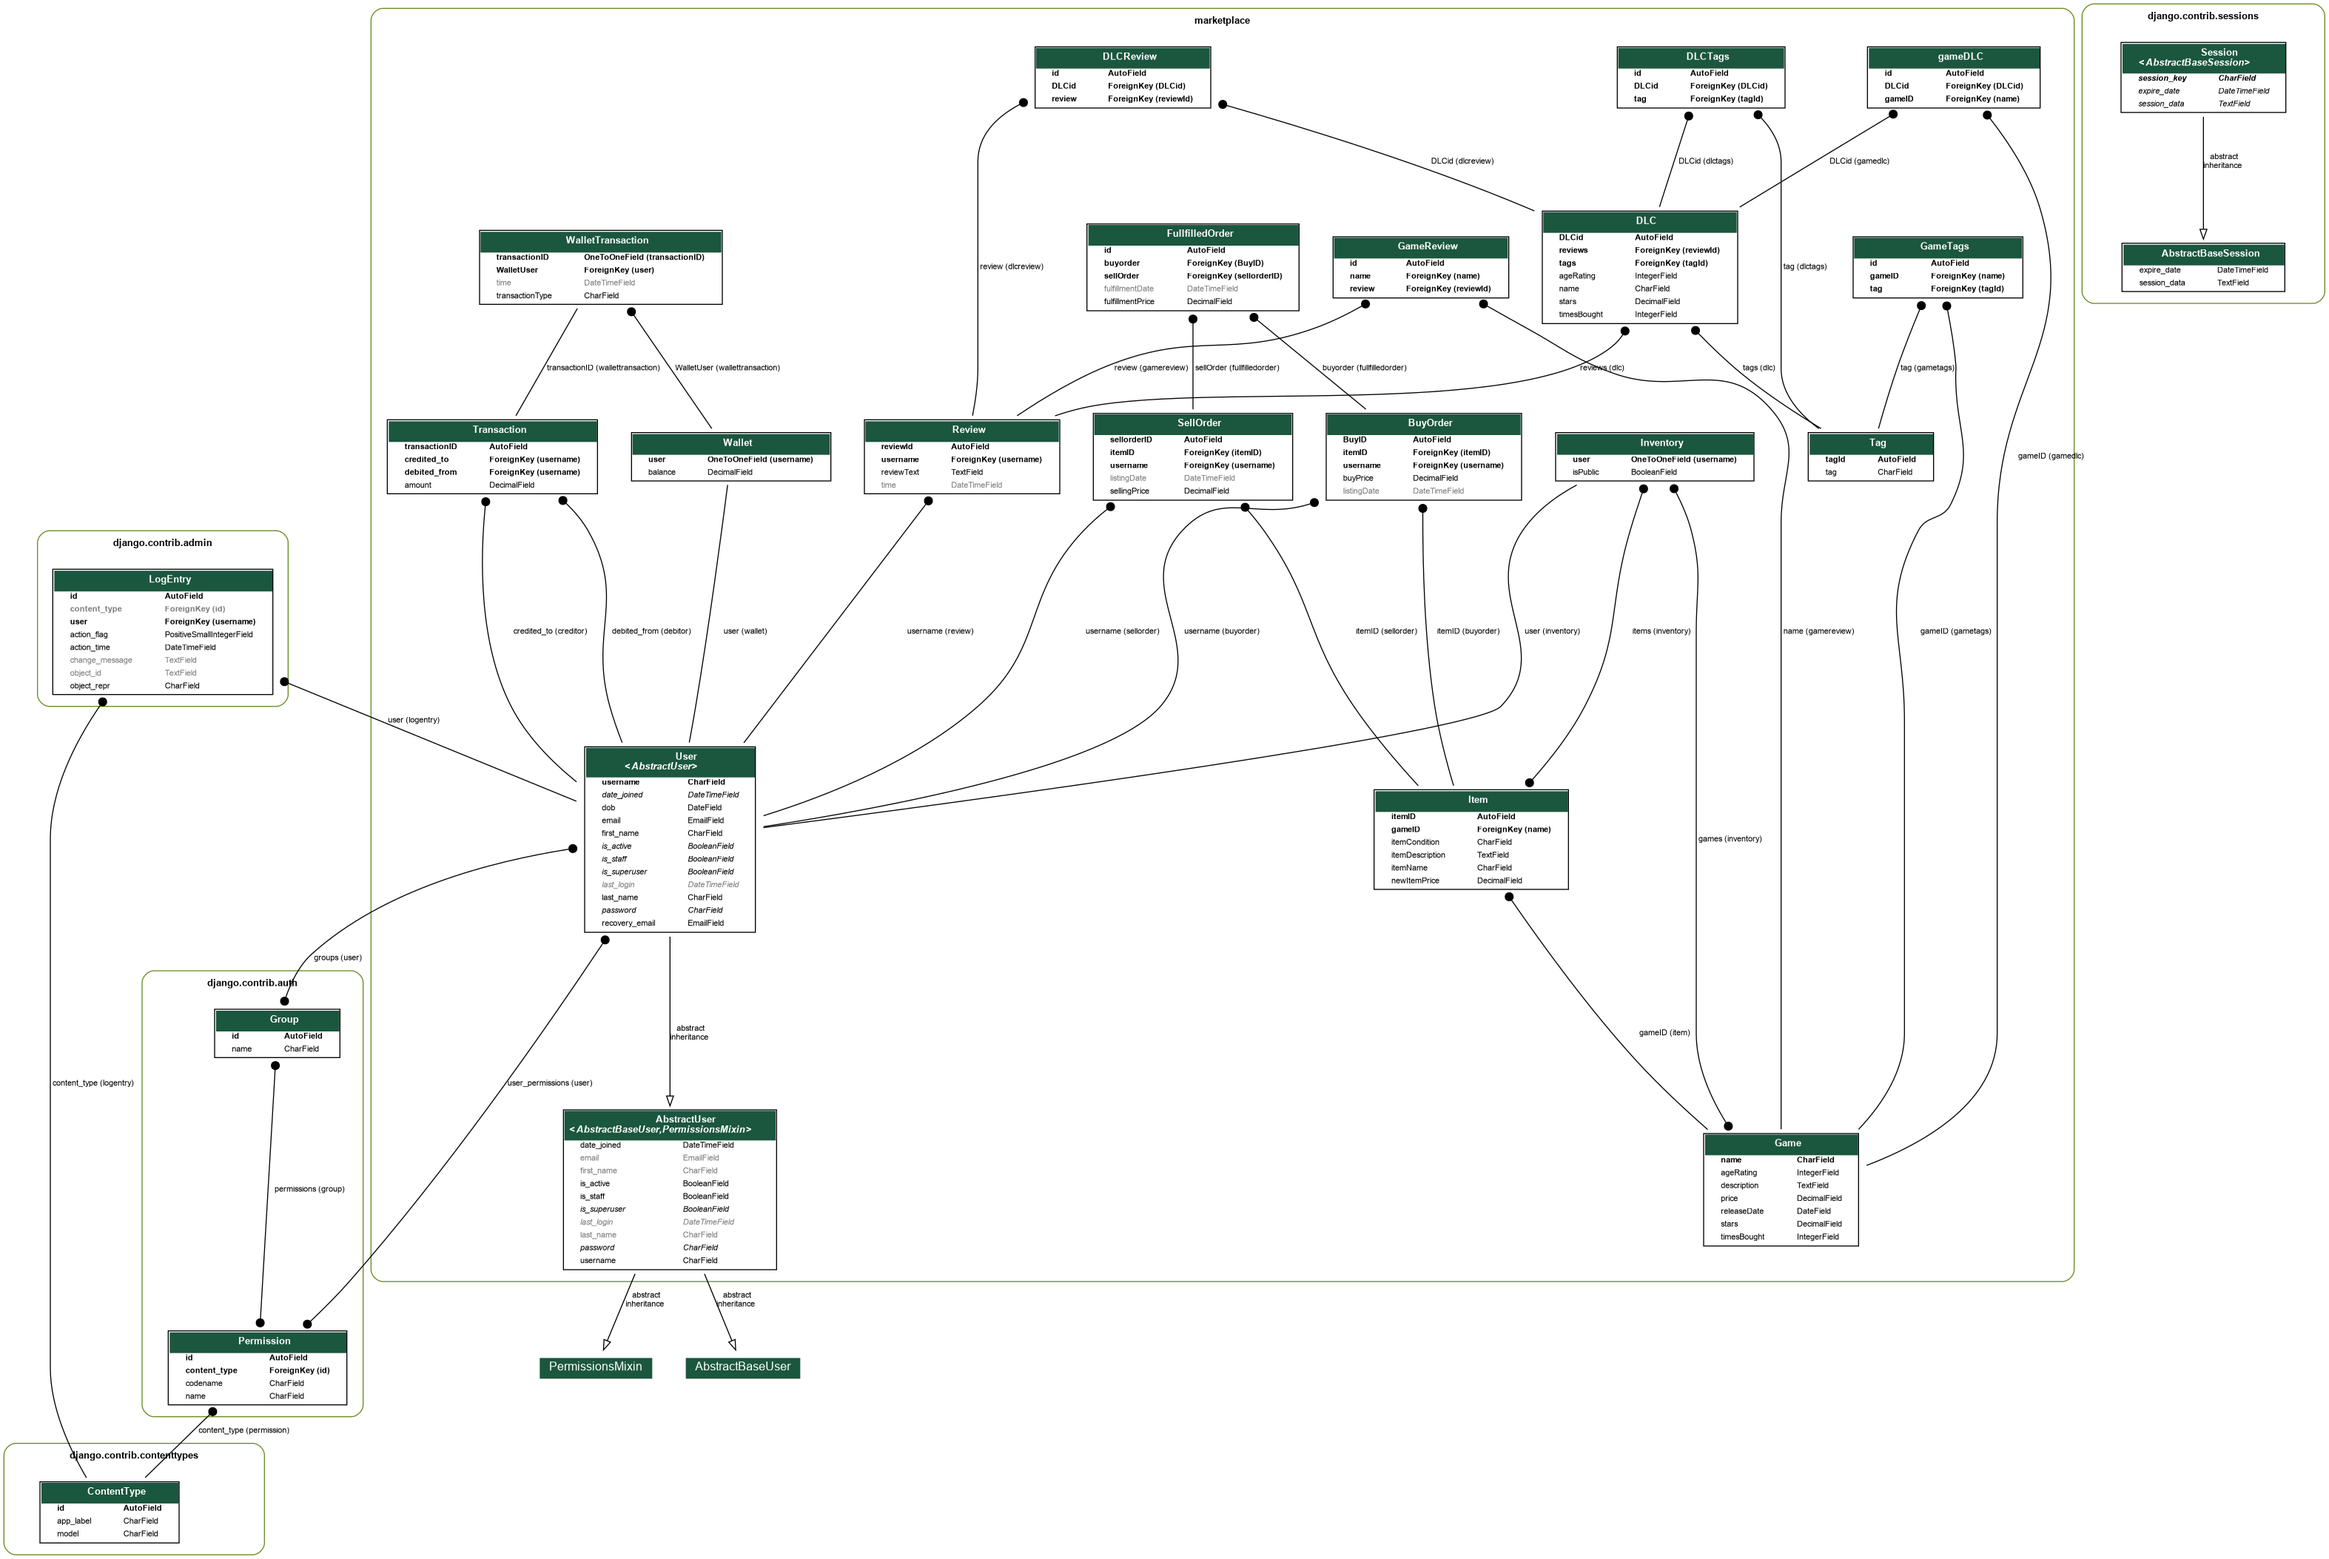
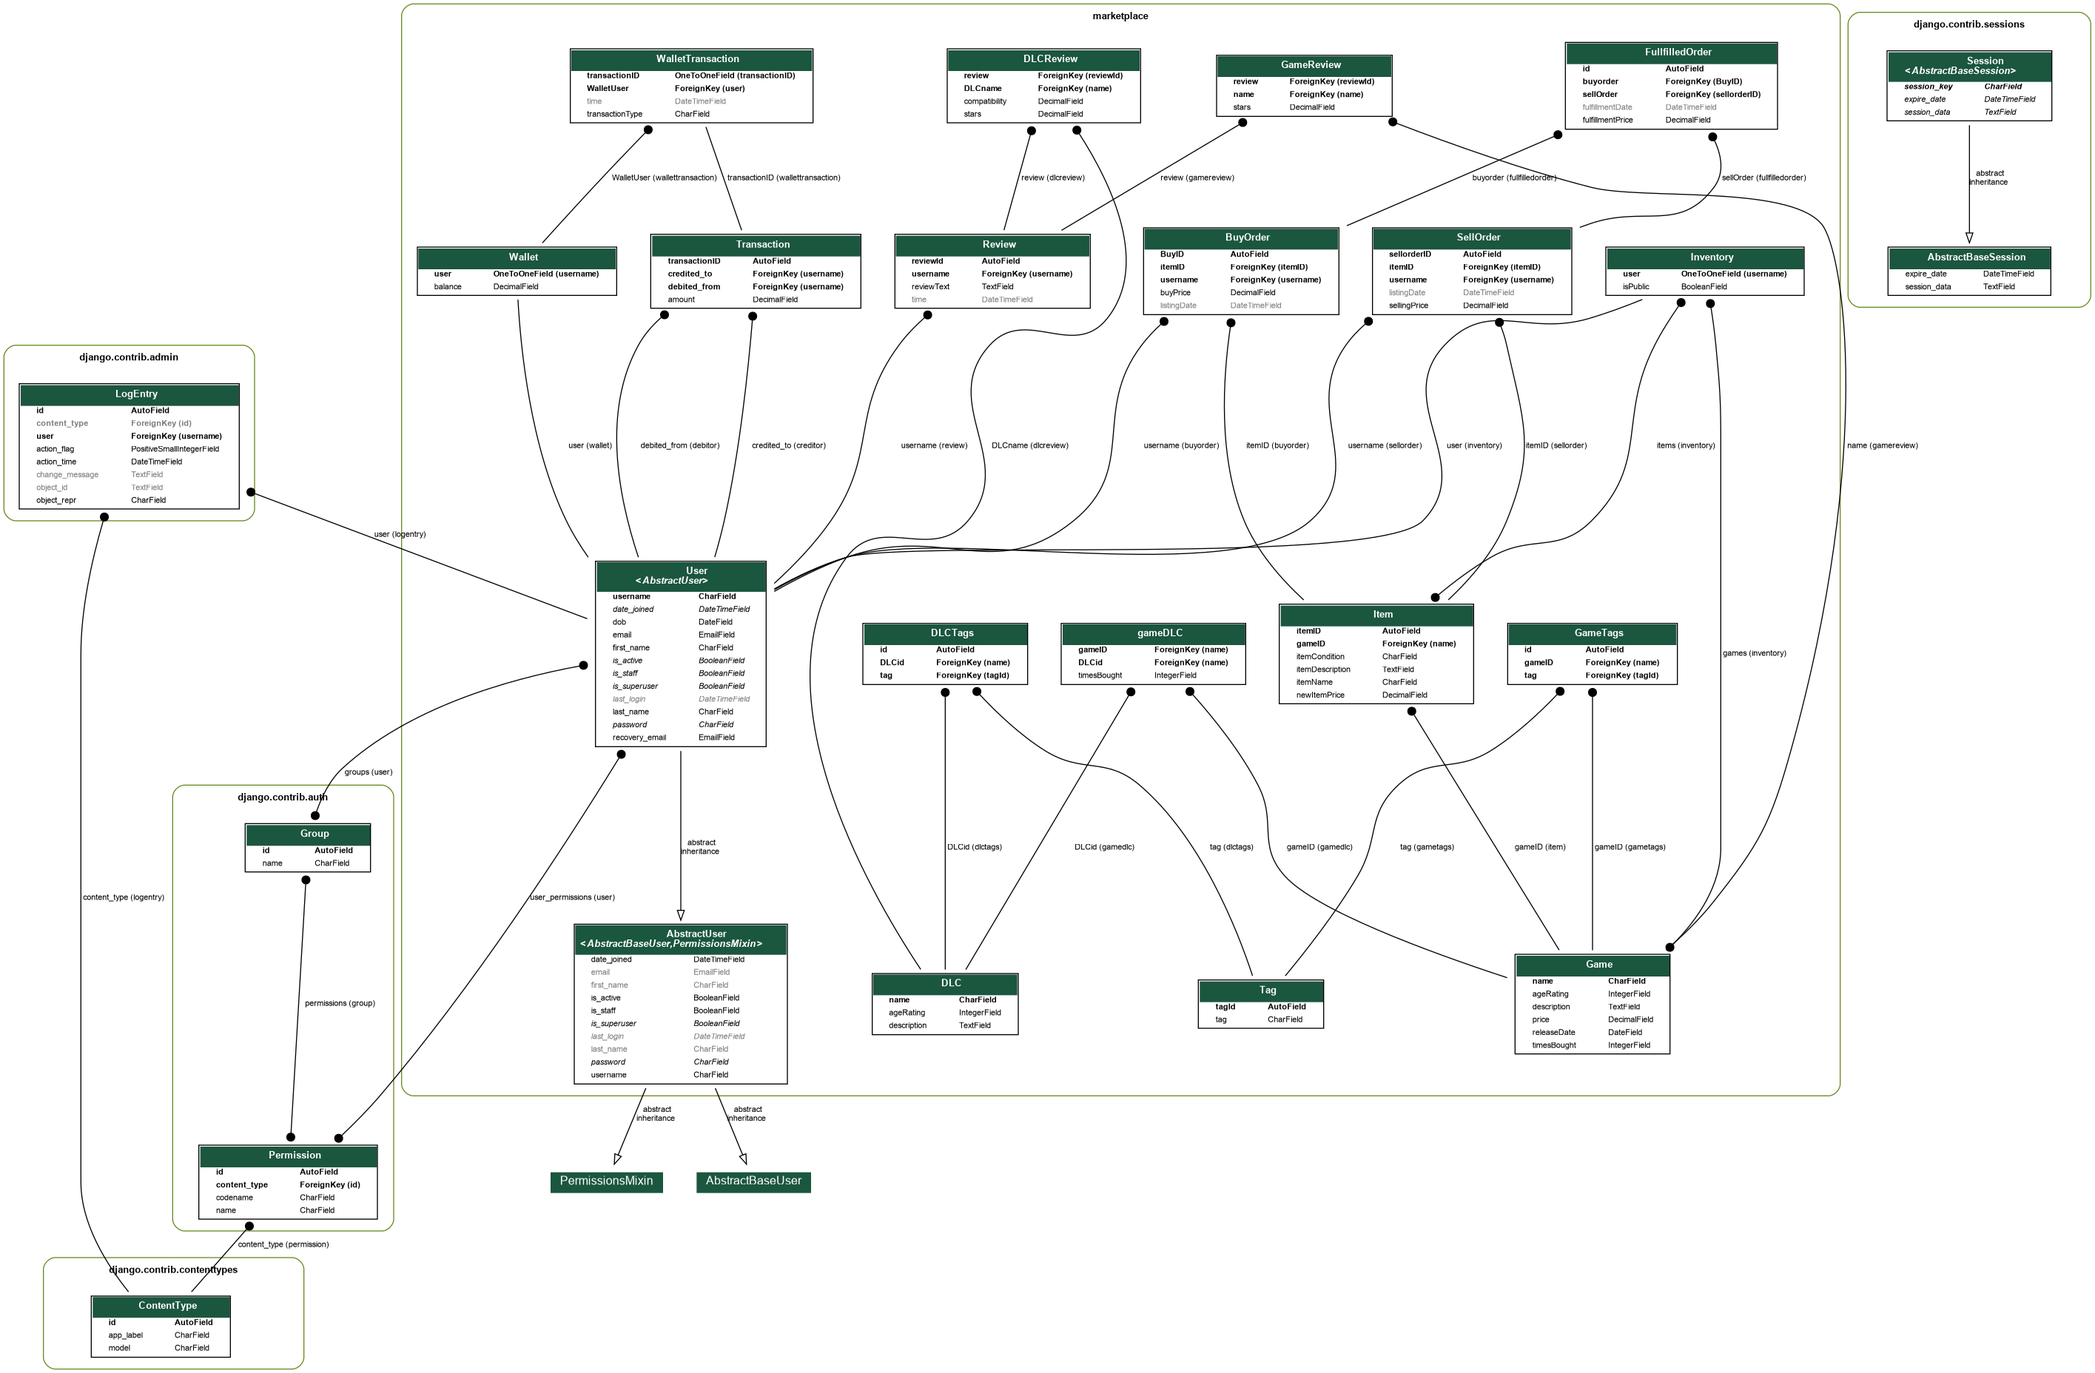
Document, Minor Model Changes , New Graph

diff --git a/marketplace/migrations/0001_initial.py b/marketplace/migrations/0001_initial.py
@@ -1,4 +1,4 @@
-# Generated by Django 2.2.5 on 2019-10-12 04:03
+# Generated by Django 2.2.5 on 2019-10-12 06:09
 
 import datetime
 from django.conf import settings
@@ -54,6 +54,14 @@ class Migration(migrations.Migration):
             ],
         ),
         migrations.CreateModel(
+            name='DLC',
+            fields=[
+                ('name', models.CharField(max_length=50, primary_key=True, serialize=False, unique=True)),
+                ('ageRating', models.IntegerField(default=7)),
+                ('description', models.TextField()),
+            ],
+        ),
+        migrations.CreateModel(
             name='Game',
             fields=[
                 ('name', models.CharField(max_length=40, primary_key=True, serialize=False, unique=True)),
@@ -62,7 +70,6 @@ class Migration(migrations.Migration):
                 ('releaseDate', models.DateField(default=datetime.date.today)),
                 ('description', models.TextField()),
                 ('ageRating', models.IntegerField(default=7)),
-                ('stars', models.DecimalField(decimal_places=1, max_digits=2, validators=[django.core.validators.MaxValueValidator(5), django.core.validators.MinValueValidator(0)])),
             ],
         ),
         migrations.CreateModel(
@@ -74,6 +81,15 @@ class Migration(migrations.Migration):
                 ('itemName', models.CharField(max_length=50, unique=True)),
                 ('itemCondition', models.CharField(choices=[('FN', 'Factory New'), ('FT', 'Field Tested'), ('BS', 'Battle Scarred')], default='FN', max_length=2)),
                 ('gameID', models.ForeignKey(on_delete=django.db.models.deletion.CASCADE, to='marketplace.Game')),
+            ],
+        ),
+        migrations.CreateModel(
+            name='Review',
+            fields=[
+                ('reviewId', models.AutoField(primary_key=True, serialize=False)),
+                ('reviewText', models.TextField(validators=[django.core.validators.MinLengthValidator(5)])),
+                ('time', models.DateTimeField(auto_now_add=True)),
+                ('username', models.ForeignKey(on_delete=django.db.models.deletion.CASCADE, to=settings.AUTH_USER_MODEL)),
             ],
         ),
         migrations.CreateModel(
@@ -110,15 +126,6 @@ class Migration(migrations.Migration):
             ],
         ),
         migrations.CreateModel(
-            name='Review',
-            fields=[
-                ('reviewId', models.AutoField(primary_key=True, serialize=False)),
-                ('reviewText', models.TextField(validators=[django.core.validators.MinLengthValidator(5)])),
-                ('time', models.DateTimeField(auto_now_add=True)),
-                ('username', models.ForeignKey(on_delete=django.db.models.deletion.CASCADE, to=settings.AUTH_USER_MODEL)),
-            ],
-        ),
-        migrations.CreateModel(
             name='FullfilledOrder',
             fields=[
                 ('id', models.AutoField(auto_created=True, primary_key=True, serialize=False, verbose_name='ID')),
@@ -126,18 +133,6 @@ class Migration(migrations.Migration):
                 ('fulfillmentPrice', models.DecimalField(decimal_places=1, default=0.0, max_digits=5)),
                 ('buyorder', models.ForeignKey(on_delete=django.db.models.deletion.CASCADE, to='marketplace.BuyOrder')),
                 ('sellOrder', models.ForeignKey(on_delete=django.db.models.deletion.CASCADE, to='marketplace.SellOrder')),
-            ],
-        ),
-        migrations.CreateModel(
-            name='DLC',
-            fields=[
-                ('DLCid', models.AutoField(primary_key=True, serialize=False)),
-                ('name', models.CharField(max_length=50, unique=True)),
-                ('ageRating', models.IntegerField(default=7)),
-                ('stars', models.DecimalField(decimal_places=1, max_digits=2, validators=[django.core.validators.MaxValueValidator(5), django.core.validators.MinValueValidator(0)])),
-                ('timesBought', models.IntegerField(default=0)),
-                ('reviews', models.ForeignKey(on_delete=django.db.models.deletion.CASCADE, to='marketplace.Review')),
-                ('tags', models.ForeignKey(on_delete=django.db.models.deletion.CASCADE, to='marketplace.Tag')),
             ],
         ),
         migrations.AddField(
@@ -185,28 +180,6 @@ class Migration(migrations.Migration):
             },
         ),
         migrations.CreateModel(
-            name='GameReview',
-            fields=[
-                ('id', models.AutoField(auto_created=True, primary_key=True, serialize=False, verbose_name='ID')),
-                ('name', models.ForeignKey(on_delete=django.db.models.deletion.CASCADE, to='marketplace.Game')),
-                ('review', models.ForeignKey(on_delete=django.db.models.deletion.CASCADE, to='marketplace.Review')),
-            ],
-            options={
-                'unique_together': {('review', 'name')},
-            },
-        ),
-        migrations.CreateModel(
-            name='gameDLC',
-            fields=[
-                ('id', models.AutoField(auto_created=True, primary_key=True, serialize=False, verbose_name='ID')),
-                ('DLCid', models.ForeignKey(on_delete=django.db.models.deletion.CASCADE, to='marketplace.DLC')),
-                ('gameID', models.ForeignKey(on_delete=django.db.models.deletion.CASCADE, to='marketplace.Game')),
-            ],
-            options={
-                'unique_together': {('gameID', 'DLCid')},
-            },
-        ),
-        migrations.CreateModel(
             name='DLCTags',
             fields=[
                 ('id', models.AutoField(auto_created=True, primary_key=True, serialize=False, verbose_name='ID')),
@@ -218,14 +191,37 @@ class Migration(migrations.Migration):
             },
         ),
         migrations.CreateModel(
-            name='DLCReview',
+            name='GameReview',
             fields=[
-                ('id', models.AutoField(auto_created=True, primary_key=True, serialize=False, verbose_name='ID')),
-                ('DLCid', models.ForeignKey(on_delete=django.db.models.deletion.CASCADE, to='marketplace.DLC')),
-                ('review', models.ForeignKey(on_delete=django.db.models.deletion.CASCADE, to='marketplace.Review')),
+                ('review', models.ForeignKey(on_delete=django.db.models.deletion.CASCADE, primary_key=True, serialize=False, to='marketplace.Review')),
+                ('stars', models.DecimalField(decimal_places=1, max_digits=2, validators=[django.core.validators.MaxValueValidator(5), django.core.validators.MinValueValidator(0)])),
+                ('name', models.ForeignKey(on_delete=django.db.models.deletion.CASCADE, to='marketplace.Game')),
             ],
             options={
-                'unique_together': {('review', 'DLCid')},
+                'unique_together': {('review', 'name')},
+            },
+        ),
+        migrations.CreateModel(
+            name='gameDLC',
+            fields=[
+                ('gameID', models.ForeignKey(on_delete=django.db.models.deletion.CASCADE, primary_key=True, serialize=False, to='marketplace.Game')),
+                ('timesBought', models.IntegerField(default=0)),
+                ('DLCid', models.ForeignKey(on_delete=django.db.models.deletion.CASCADE, to='marketplace.DLC')),
+            ],
+            options={
+                'unique_together': {('gameID', 'DLCid')},
+            },
+        ),
+        migrations.CreateModel(
+            name='DLCReview',
+            fields=[
+                ('review', models.ForeignKey(on_delete=django.db.models.deletion.CASCADE, primary_key=True, serialize=False, to='marketplace.Review')),
+                ('stars', models.DecimalField(decimal_places=1, max_digits=2, validators=[django.core.validators.MaxValueValidator(5), django.core.validators.MinValueValidator(0)])),
+                ('compatibility', models.DecimalField(decimal_places=1, max_digits=2, null=True, validators=[django.core.validators.MaxValueValidator(5), django.core.validators.MinValueValidator(0)])),
+                ('DLCname', models.ForeignKey(on_delete=django.db.models.deletion.CASCADE, to='marketplace.DLC')),
+            ],
+            options={
+                'unique_together': {('review', 'DLCname')},
             },
         ),
     ]

diff --git a/marketplace/models.py b/marketplace/models.py
@@ -16,18 +16,17 @@ class User(AbstractUser):
 class Game(models.Model):
     name = models.CharField(unique=True, max_length=40, primary_key=True)
     price = models.DecimalField(default=0.0, decimal_places=1, max_digits=5)
-    # gameID = models.AutoField(primary_key=True)
     timesBought = models.IntegerField(default=0)
     releaseDate = models.DateField(default=date.today)
     description = models.TextField()
     ageRating = models.IntegerField(default=7)
-    stars = models.DecimalField(validators=[MaxValueValidator(5), MinValueValidator(0)], max_digits=2, decimal_places=1)
     def __str__(self):
         return self.name
     
 class GameReview(models.Model):
-    review = models.ForeignKey('Review', on_delete=models.CASCADE)
+    review = models.ForeignKey('Review', on_delete=models.CASCADE, primary_key=True)
     name = models.ForeignKey('Game', on_delete=models.CASCADE)
+    stars = models.DecimalField(validators=[MaxValueValidator(5), MinValueValidator(0)], max_digits=2, decimal_places=1)
     class Meta:
          unique_together = ('review', 'name')
 
@@ -36,34 +35,38 @@ class GameTags(models.Model):
     tag = models.ForeignKey('Tag', on_delete=models.CASCADE)
     gameID = models.ForeignKey('Game', on_delete=models.CASCADE)
     class Meta:
-         unique_together = ('tag', 'gameID')
+         unique_together = ['tag', 'gameID']
 
 class DLC(models.Model):
-    DLCid = models.AutoField(primary_key=True)
-    name = models.CharField(unique=True, max_length=50)
+    name = models.CharField(unique=True, max_length=50, primary_key=True)
     ageRating = models.IntegerField(default=7)
-    stars = models.DecimalField(validators=[MaxValueValidator(5), MinValueValidator(0)], max_digits=2, decimal_places=1)
-    reviews = models.ForeignKey('Review', on_delete=models.CASCADE)
-    tags = models.ForeignKey('Tag', on_delete=models.CASCADE)
-    timesBought = models.IntegerField(default=0)
+    description = models.TextField()
+
+    # stars = models.DecimalField(validators=[MaxValueValidator(5), MinValueValidator(0)], max_digits=2, decimal_places=1)
+    # reviews = models.ForeignKey('Review', on_delete=models.CASCADE)
+    # tags = models.ForeignKey('Tag', on_delete=models.CASCADE)
     def __str__(self):
         return self.name
 class gameDLC(models.Model):
-    gameID = models.ForeignKey('Game', on_delete=models.CASCADE)
+    gameID = models.ForeignKey('Game', on_delete=models.CASCADE, primary_key=True)
     DLCid = models.ForeignKey('DLC', on_delete=models.CASCADE)
+    timesBought = models.IntegerField(default=0)
     class Meta:
          unique_together = ('gameID', 'DLCid')
 class DLCReview(models.Model):
-    review = models.ForeignKey('Review', on_delete=models.CASCADE)
-    DLCid = models.ForeignKey('DLC', on_delete=models.CASCADE)
+    review = models.ForeignKey('Review', on_delete=models.CASCADE, primary_key=True)
+    DLCname = models.ForeignKey('DLC', on_delete=models.CASCADE)
+    stars = models.DecimalField(validators=[MaxValueValidator(5), MinValueValidator(0)], max_digits=2, decimal_places=1, null=False)
+    compatibility = models.DecimalField(validators=[MaxValueValidator(5), MinValueValidator(0)], max_digits=2, decimal_places=1, null=True)
+
     class Meta:
-         unique_together = ('review', 'DLCid')
+         unique_together = ['review', 'DLCname']
 
 class DLCTags(models.Model):
     tag = models.ForeignKey('Tag', on_delete=models.CASCADE)
     DLCid = models.ForeignKey('DLC', on_delete=models.CASCADE)
     class Meta:
-         unique_together = ('tag', 'DLCid')
+         unique_together = (('tag', 'DLCid'),)
 
 class Item(models.Model):
     itemID = models.AutoField(primary_key=True)

diff --git a/marketplace/admin.py b/marketplace/admin.py
@@ -4,11 +4,11 @@ from .models import *
 admin.site.register(Game)
 admin.site.register(User)
 admin.site.register(GameReview)
-admin.site.register(GameTags)
+# admin.site.register(GameTags)
 admin.site.register(DLC)
 admin.site.register(gameDLC)
 admin.site.register(DLCReview)
-admin.site.register(DLCTags)
+# admin.site.register(DLCTags)
 admin.site.register(Item)
 admin.site.register(Review)
 admin.site.register(Tag)
